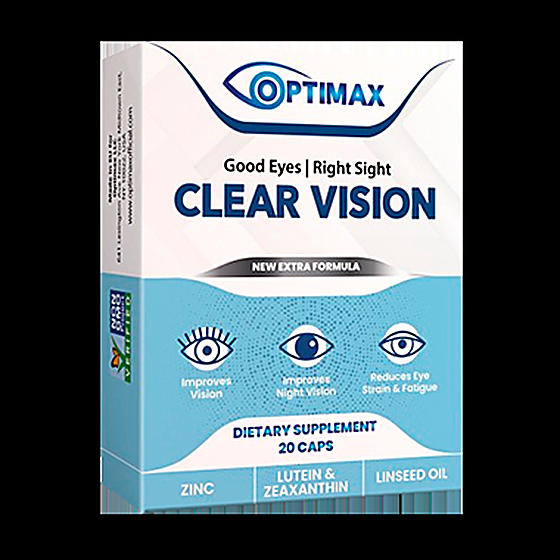
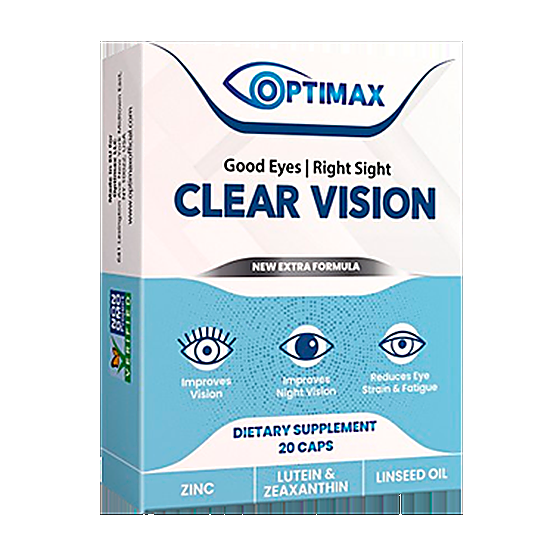
Фото: белый фон вместо чёрного — 763 кадра заливкой, 223 перерисовкой с автопроверкой текста

diff --git a/index.html b/index.html
@@ -52,7 +52,7 @@
 <div class="wrap">
   <header><img src="favicon.png" alt=""><h1>Manufacturer's shop</h1></header>
   <div class="intro"><p>Direct sale of products for everyday wellbeing.</p></div>
-  <div class="grid"><a class="card" href="/cp/acure/"><div class="ph"><img src="img/cp-18541.jpg" alt="Acure+" loading="lazy"></div><div class="name">Acure+</div><div class="price">₱1980</div><div class="btn">ORDER THE ORIGINAL</div></a><a class="card" href="/lb/anti-parasite/"><div class="ph"><img src="img/lbhd-19262.webp" alt="Anti Parasite" loading="lazy"></div><div class="name">Anti Parasite</div><div class="price">₱1950</div><div class="btn">ORDER THE ORIGINAL</div></a><a class="card" href="/kma/aurifix/"><div class="ph"><img src="img/kmahd-6668.png" alt="Aurifix" loading="lazy"></div><div class="name">Aurifix</div><div class="price">₱1950</div><div class="btn">ORDER THE ORIGINAL</div></a><a class="card" href="/lb/bone-support/"><div class="ph"><img src="img/lbhd-19253.png" alt="Bone Support" loading="lazy"></div><div class="name">Bone Support</div><div class="price">₱1950</div><div class="btn">ORDER THE ORIGINAL</div></a><a class="card" href="/dc/bone-support/"><div class="ph"><img src="img/dccard-33339.jpg" alt="Bone Support ENG" loading="lazy"></div><div class="name">Bone Support ENG</div><div class="price">₱1950</div><div class="btn">ORDER THE ORIGINAL</div></a><a class="card" href="/lb/buah-merah/"><div class="ph"><img src="img/lbhd-14441.png" alt="Buah Merah" loading="lazy"></div><div class="name">Buah Merah</div><div class="price">₱1990</div><div class="btn">ORDER THE ORIGINAL</div></a><a class="card" href="/lb/buah-merah-16736/"><div class="ph"><img src="img/lbhd-14441.png" alt="Buah Merah - Hypertonia + Potency" loading="lazy"></div><div class="name">Buah Merah - Hypertonia + Potency</div><div class="price">₱1990</div><div class="btn">ORDER THE ORIGINAL</div></a><a class="card" href="/kma/cardio-balance/"><div class="ph"><img src="img/kmahd-9606.jpg" alt="Cardio Balance" loading="lazy"></div><div class="name">Cardio Balance</div><div class="price">₱1950</div><div class="btn">ORDER THE ORIGINAL</div></a><a class="card" href="/kma/cardio-tonus/"><div class="ph"><img src="img/kmahd-8102.jpg" alt="Cardio Tonus" loading="lazy"></div><div class="name">Cardio Tonus</div><div class="price">₱1950</div><div class="btn">ORDER THE ORIGINAL</div></a><a class="card" href="/dc/cardiocept/"><div class="ph"><img src="img/dccard-30212.png" alt="Cardiocept" loading="lazy"></div><div class="name">Cardiocept</div><div class="price">₱1950</div><div class="btn">ORDER THE ORIGINAL</div></a><a class="card" href="/cp/cardiorin/"><div class="ph"><img src="img/cp-18537.jpg" alt="Cardiorin" loading="lazy"></div><div class="name">Cardiorin</div><div class="price">₱1980</div><div class="btn">ORDER THE ORIGINAL</div></a><a class="card" href="/lb/collagenax/"><div class="ph"><img src="img/lbhd-5883.png" alt="CollagenAX" loading="lazy"></div><div class="name">CollagenAX</div><div class="price">₱1970</div><div class="btn">ORDER THE ORIGINAL</div></a><a class="card" href="/cp/diabetin/"><div class="ph"><img src="img/cp-18539.jpg" alt="Diabetin" loading="lazy"></div><div class="name">Diabetin</div><div class="price">₱1980</div><div class="btn">ORDER THE ORIGINAL</div></a><a class="card" href="/kma/diabex/"><div class="ph"><img src="img/kmahd-9609.png" alt="Diabex" loading="lazy"></div><div class="name">Diabex</div><div class="price">₱1980</div><div class="btn">ORDER THE ORIGINAL</div></a><a class="card" href="/lr/diabextan/"><div class="ph"><img src="img/lrhd-2911.png" alt="Diabextan" loading="lazy"></div><div class="name">Diabextan</div><div class="price">₱1930</div><div class="btn">ORDER THE ORIGINAL</div></a><a class="card" href="/m1/dr-flex/"><div class="ph"><img src="img/dccard-31306.png" alt="Dr.Flex" loading="lazy"></div><div class="name">Dr.Flex</div><div class="price">₱1970</div><div class="btn">ORDER THE ORIGINAL</div></a><a class="card" href="/m1/dr-prost/"><div class="ph"><img src="img/drcash-dr-prost.png" alt="Dr.Prost" loading="lazy"></div><div class="name">Dr.Prost</div><div class="price">₱1970</div><div class="btn">ORDER THE ORIGINAL</div></a><a class="card" href="/cp/easygo/"><div class="ph"><img src="img/cat-cpa-18531.jpg" alt="EasyGo" loading="lazy"></div><div class="name">EasyGo</div><div class="price">₱1980</div><div class="btn">ORDER THE ORIGINAL</div></a><a class="card" href="/kma/fitsleep/"><div class="ph"><img src="img/kmahd-8099.png" alt="Fit&amp;Sleep" loading="lazy"></div><div class="name">Fit&amp;Sleep</div><div class="price">₱1950</div><div class="btn">ORDER THE ORIGINAL</div></a><a class="card" href="/lb/fitsleep/"><div class="ph"><img src="img/lbhd-7251.png" alt="Fit&amp;Sleep - weight loss treatment" loading="lazy"></div><div class="name">Fit&amp;Sleep - weight loss treatment</div><div class="price">₱1950</div><div class="btn">ORDER THE ORIGINAL</div></a><a class="card" href="/sh/flexolex/"><div class="ph"><img src="img/shhd-17676.png" alt="Flexolex" loading="lazy"></div><div class="name">Flexolex</div><div class="price">₱1970</div><div class="btn">ORDER THE ORIGINAL</div></a><a class="card" href="/kma/fungonal/"><div class="ph"><img src="img/kmahd-7082.png" alt="Fungonal" loading="lazy"></div><div class="name">Fungonal</div><div class="price">₱1970</div><div class="btn">ORDER THE ORIGINAL</div></a><a class="card" href="/lb/glucocept/"><div class="ph"><img src="img/lbhd-16783.png" alt="Glucocept" loading="lazy"></div><div class="name">Glucocept</div><div class="price">₱1980</div><div class="btn">ORDER THE ORIGINAL</div></a><a class="card" href="/lb/gluconax/"><div class="ph"><img src="img/lbhd-15223.png" alt="Gluconax" loading="lazy"></div><div class="name">Gluconax</div><div class="price">₱1990</div><div class="btn">ORDER THE ORIGINAL</div></a><a class="card" href="/kma/glucosoft/"><div class="ph"><img src="img/kmahd-8100.png" alt="GlucoSoft" loading="lazy"></div><div class="name">GlucoSoft</div><div class="price">₱1980</div><div class="btn">ORDER THE ORIGINAL</div></a><a class="card" href="/lb/glucosoft/"><div class="ph"><img src="img/lbhd-7751.png" alt="GlucoSoft - sugar control supplement" loading="lazy"></div><div class="name">GlucoSoft - sugar control supplement</div><div class="price">₱1980</div><div class="btn">ORDER THE ORIGINAL</div></a><a class="card" href="/kma/haciba/"><div class="ph"><img src="img/kmahd-11901.png" alt="Haciba" loading="lazy"></div><div class="name">Haciba</div><div class="price">₱1990</div><div class="btn">ORDER THE ORIGINAL</div></a><a class="card" href="/lb/haciba-breast-enlargement/"><div class="ph"><img src="img/lbhd-14101.jpeg" alt="Haciba Breast Enlargement" loading="lazy"></div><div class="name">Haciba Breast Enlargement</div><div class="price">₱1990</div><div class="btn">ORDER THE ORIGINAL</div></a><a class="card" href="/lb/haciba-cystitis/"><div class="ph"><img src="img/lbhd-11292.png" alt="Haciba Cystitis" loading="lazy"></div><div class="name">Haciba Cystitis</div><div class="price">₱1990</div><div class="btn">ORDER THE ORIGINAL</div></a><a class="card" href="/kma/hardica/"><div class="ph"><img src="img/kmahd-8574.jpg" alt="Hardica" loading="lazy"></div><div class="name">Hardica</div><div class="price">₱1980</div><div class="btn">ORDER THE ORIGINAL</div></a><a class="card" href="/lb/hardica/"><div class="ph"><img src="img/lbhd-7752.jpeg" alt="Hardica - potency" loading="lazy"></div><div class="name">Hardica - potency</div><div class="price">₱1980</div><div class="btn">ORDER THE ORIGINAL</div></a><a class="card" href="/dc/hardica/"><div class="ph"><img src="img/drcash-hardica.webp" alt="Hardica Adult" loading="lazy"></div><div class="name">Hardica Adult</div><div class="price">₱1980</div><div class="btn">ORDER THE ORIGINAL</div></a><a class="card" href="/lb/heart-keep/"><div class="ph"><img src="img/lbhd-3582.png" alt="Heart Keep" loading="lazy"></div><div class="name">Heart Keep</div><div class="price">₱1950</div><div class="btn">ORDER THE ORIGINAL</div></a><a class="card" href="/lb/heart-support/"><div class="ph"><img src="img/lbhd-19211.png" alt="Heart Support" loading="lazy"></div><div class="name">Heart Support</div><div class="price">₱1950</div><div class="btn">ORDER THE ORIGINAL</div></a><a class="card" href="/lr/heartkeep/"><div class="ph"><img src="img/lrhd-1303.png" alt="HeartKeep" loading="lazy"></div><div class="name">HeartKeep</div><div class="price">₱1950</div><div class="btn">ORDER THE ORIGINAL</div></a><a class="card" href="/cp/hemanol/"><div class="ph"><img src="img/cp-18533.jpg" alt="Hemanol" loading="lazy"></div><div class="name">Hemanol</div><div class="price">₱990</div><div class="btn">ORDER THE ORIGINAL</div></a><a class="card" href="/dc/liveromax/"><div class="ph"><img src="img/lbhd-7253.png" alt="LiveroMAX" loading="lazy"></div><div class="name">LiveroMAX</div><div class="price">₱1950</div><div class="btn">ORDER THE ORIGINAL</div></a><a class="card" href="/lb/liveromax/"><div class="ph"><img src="img/lbhd-7253.png" alt="LiveroMAX - liver health" loading="lazy"></div><div class="name">LiveroMAX - liver health</div><div class="price">₱1950</div><div class="btn">ORDER THE ORIGINAL</div></a><a class="card" href="/tl/lungactive/"><div class="ph"><img src="img/tlhd-7912.png" alt="LungActive" loading="lazy"></div><div class="name">LungActive</div><div class="price">₱1950</div><div class="btn">ORDER THE ORIGINAL</div></a><a class="card" href="/lb/lungactive/"><div class="ph"><img src="img/lbhd-7254.png" alt="LungActive - lungs health" loading="lazy"></div><div class="name">LungActive - lungs health</div><div class="price">₱1950</div><div class="btn">ORDER THE ORIGINAL</div></a><a class="card" href="/lr/mega-slim-body/"><div class="ph"><img src="img/lrhd-1346.png" alt="Mega Slim Body" loading="lazy"></div><div class="name">Mega Slim Body</div><div class="price">₱1970</div><div class="btn">ORDER THE ORIGINAL</div></a><a class="card" href="/dc/megaslim-body/"><div class="ph"><img src="img/tlhd-3912.png" alt="MegaSlim Body" loading="lazy"></div><div class="name">MegaSlim Body</div><div class="price">₱1970</div><div class="btn">ORDER THE ORIGINAL</div></a><a class="card" href="/kma/muscle-art/"><div class="ph"><img src="img/kmahd-6439.png" alt="Muscle Art" loading="lazy"></div><div class="name">Muscle Art</div><div class="price">₱1950</div><div class="btn">ORDER THE ORIGINAL</div></a><a class="card" href="/lr/muscleart/"><div class="ph"><img src="img/lrhd-2811.png" alt="MuscleArt" loading="lazy"></div><div class="name">MuscleArt</div><div class="price">₱1950</div><div class="btn">ORDER THE ORIGINAL</div></a><a class="card" href="/tl/ocure-plus/"><div class="ph"><img src="img/tlhd-10438.png" alt="Ocure plus" loading="lazy"></div><div class="name">Ocure plus</div><div class="price">₱1970</div><div class="btn">ORDER THE ORIGINAL</div></a><a class="card" href="/dc/ocureplus/"><div class="ph"><img src="img/leadbit-ocureplus.webp" alt="OcurePlus" loading="lazy"></div><div class="name">OcurePlus</div><div class="price">₱3940</div><div class="btn">ORDER THE ORIGINAL</div></a><a class="card" href="/lb/ocureplus/"><div class="ph"><img src="img/lbhd-7754.png" alt="OcurePlus - vision improving treatment" loading="lazy"></div><div class="name">OcurePlus - vision improving treatment</div><div class="price">₱1970</div><div class="btn">ORDER THE ORIGINAL</div></a><a class="card" href="/lb/optifix/"><div class="ph"><img src="img/lbhd-5632.png" alt="Optifix" loading="lazy"></div><div class="name">Optifix</div><div class="price">₱1970</div><div class="btn">ORDER THE ORIGINAL</div></a></div>
+  <div class="grid"><a class="card" href="/cp/acure/"><div class="ph"><img src="img/cp-18541.jpg" alt="Acure+" loading="lazy"></div><div class="name">Acure+</div><div class="price">₱1980</div><div class="btn">ORDER THE ORIGINAL</div></a><a class="card" href="/lb/anti-parasite/"><div class="ph"><img src="img/lbhd-19262.webp" alt="Anti Parasite" loading="lazy"></div><div class="name">Anti Parasite</div><div class="price">₱1950</div><div class="btn">ORDER THE ORIGINAL</div></a><a class="card" href="/kma/aurifix/"><div class="ph"><img src="img/kmahd-6668.png" alt="Aurifix" loading="lazy"></div><div class="name">Aurifix</div><div class="price">₱1950</div><div class="btn">ORDER THE ORIGINAL</div></a><a class="card" href="/lb/bone-support/"><div class="ph"><img src="img/lbhd-19253.png" alt="Bone Support" loading="lazy"></div><div class="name">Bone Support</div><div class="price">₱1950</div><div class="btn">ORDER THE ORIGINAL</div></a><a class="card" href="/dc/bone-support/"><div class="ph"><img src="img/dccard-33339.jpg" alt="Bone Support ENG" loading="lazy"></div><div class="name">Bone Support ENG</div><div class="price">₱1950</div><div class="btn">ORDER THE ORIGINAL</div></a><a class="card" href="/lb/buah-merah/"><div class="ph"><img src="img/lbhd-14441.png" alt="Buah Merah" loading="lazy"></div><div class="name">Buah Merah</div><div class="price">₱1990</div><div class="btn">ORDER THE ORIGINAL</div></a><a class="card" href="/lb/buah-merah-16736/"><div class="ph"><img src="img/lbhd-14441.png" alt="Buah Merah - Hypertonia + Potency" loading="lazy"></div><div class="name">Buah Merah - Hypertonia + Potency</div><div class="price">₱1990</div><div class="btn">ORDER THE ORIGINAL</div></a><a class="card" href="/kma/cardio-balance/"><div class="ph"><img src="img/kmahd-9606.jpg" alt="Cardio Balance" loading="lazy"></div><div class="name">Cardio Balance</div><div class="price">₱1950</div><div class="btn">ORDER THE ORIGINAL</div></a><a class="card" href="/kma/cardio-tonus/"><div class="ph"><img src="img/kmahd-8102.jpg" alt="Cardio Tonus" loading="lazy"></div><div class="name">Cardio Tonus</div><div class="price">₱1950</div><div class="btn">ORDER THE ORIGINAL</div></a><a class="card" href="/dc/cardiocept/"><div class="ph"><img src="img/dccard-30212.png" alt="Cardiocept" loading="lazy"></div><div class="name">Cardiocept</div><div class="price">₱1950</div><div class="btn">ORDER THE ORIGINAL</div></a><a class="card" href="/cp/cardiorin/"><div class="ph"><img src="img/cp-18537.jpg" alt="Cardiorin" loading="lazy"></div><div class="name">Cardiorin</div><div class="price">₱1980</div><div class="btn">ORDER THE ORIGINAL</div></a><a class="card" href="/lb/collagenax/"><div class="ph"><img src="img/lbhd-5883.png" alt="CollagenAX" loading="lazy"></div><div class="name">CollagenAX</div><div class="price">₱1970</div><div class="btn">ORDER THE ORIGINAL</div></a><a class="card" href="/cp/diabetin/"><div class="ph"><img src="img/cp-18539.jpg" alt="Diabetin" loading="lazy"></div><div class="name">Diabetin</div><div class="price">₱1980</div><div class="btn">ORDER THE ORIGINAL</div></a><a class="card" href="/kma/diabex/"><div class="ph"><img src="img/kmahd-9609.png" alt="Diabex" loading="lazy"></div><div class="name">Diabex</div><div class="price">₱1980</div><div class="btn">ORDER THE ORIGINAL</div></a><a class="card" href="/lr/diabextan/"><div class="ph"><img src="img/lrhd-2911.png" alt="Diabextan" loading="lazy"></div><div class="name">Diabextan</div><div class="price">₱1930</div><div class="btn">ORDER THE ORIGINAL</div></a><a class="card" href="/m1/dr-flex/"><div class="ph"><img src="img/dccard-31306.png" alt="Dr.Flex" loading="lazy"></div><div class="name">Dr.Flex</div><div class="price">₱1970</div><div class="btn">ORDER THE ORIGINAL</div></a><a class="card" href="/m1/dr-prost/"><div class="ph"><img src="img/redraw-drcash-dr-prost.png" alt="Dr.Prost" loading="lazy"></div><div class="name">Dr.Prost</div><div class="price">₱1970</div><div class="btn">ORDER THE ORIGINAL</div></a><a class="card" href="/cp/easygo/"><div class="ph"><img src="img/cat-cpa-18531.jpg" alt="EasyGo" loading="lazy"></div><div class="name">EasyGo</div><div class="price">₱1980</div><div class="btn">ORDER THE ORIGINAL</div></a><a class="card" href="/kma/fitsleep/"><div class="ph"><img src="img/kmahd-8099.png" alt="Fit&amp;Sleep" loading="lazy"></div><div class="name">Fit&amp;Sleep</div><div class="price">₱1950</div><div class="btn">ORDER THE ORIGINAL</div></a><a class="card" href="/lb/fitsleep/"><div class="ph"><img src="img/lbhd-7251.png" alt="Fit&amp;Sleep - weight loss treatment" loading="lazy"></div><div class="name">Fit&amp;Sleep - weight loss treatment</div><div class="price">₱1950</div><div class="btn">ORDER THE ORIGINAL</div></a><a class="card" href="/sh/flexolex/"><div class="ph"><img src="img/shhd-17676.png" alt="Flexolex" loading="lazy"></div><div class="name">Flexolex</div><div class="price">₱1970</div><div class="btn">ORDER THE ORIGINAL</div></a><a class="card" href="/kma/fungonal/"><div class="ph"><img src="img/kmahd-7082.png" alt="Fungonal" loading="lazy"></div><div class="name">Fungonal</div><div class="price">₱1970</div><div class="btn">ORDER THE ORIGINAL</div></a><a class="card" href="/lb/glucocept/"><div class="ph"><img src="img/lbhd-16783.png" alt="Glucocept" loading="lazy"></div><div class="name">Glucocept</div><div class="price">₱1980</div><div class="btn">ORDER THE ORIGINAL</div></a><a class="card" href="/lb/gluconax/"><div class="ph"><img src="img/redraw-lbhd-15223.png" alt="Gluconax" loading="lazy"></div><div class="name">Gluconax</div><div class="price">₱1990</div><div class="btn">ORDER THE ORIGINAL</div></a><a class="card" href="/kma/glucosoft/"><div class="ph"><img src="img/kmahd-8100.png" alt="GlucoSoft" loading="lazy"></div><div class="name">GlucoSoft</div><div class="price">₱1980</div><div class="btn">ORDER THE ORIGINAL</div></a><a class="card" href="/lb/glucosoft/"><div class="ph"><img src="img/redraw-lbhd-7751.png" alt="GlucoSoft - sugar control supplement" loading="lazy"></div><div class="name">GlucoSoft - sugar control supplement</div><div class="price">₱1980</div><div class="btn">ORDER THE ORIGINAL</div></a><a class="card" href="/kma/haciba/"><div class="ph"><img src="img/kmahd-11901.png" alt="Haciba" loading="lazy"></div><div class="name">Haciba</div><div class="price">₱1990</div><div class="btn">ORDER THE ORIGINAL</div></a><a class="card" href="/lb/haciba-breast-enlargement/"><div class="ph"><img src="img/lbhd-14101.jpeg" alt="Haciba Breast Enlargement" loading="lazy"></div><div class="name">Haciba Breast Enlargement</div><div class="price">₱1990</div><div class="btn">ORDER THE ORIGINAL</div></a><a class="card" href="/lb/haciba-cystitis/"><div class="ph"><img src="img/lbhd-11292.png" alt="Haciba Cystitis" loading="lazy"></div><div class="name">Haciba Cystitis</div><div class="price">₱1990</div><div class="btn">ORDER THE ORIGINAL</div></a><a class="card" href="/kma/hardica/"><div class="ph"><img src="img/kmahd-8574.jpg" alt="Hardica" loading="lazy"></div><div class="name">Hardica</div><div class="price">₱1980</div><div class="btn">ORDER THE ORIGINAL</div></a><a class="card" href="/lb/hardica/"><div class="ph"><img src="img/lbhd-7752.jpeg" alt="Hardica - potency" loading="lazy"></div><div class="name">Hardica - potency</div><div class="price">₱1980</div><div class="btn">ORDER THE ORIGINAL</div></a><a class="card" href="/dc/hardica/"><div class="ph"><img src="img/drcash-hardica.webp" alt="Hardica Adult" loading="lazy"></div><div class="name">Hardica Adult</div><div class="price">₱1980</div><div class="btn">ORDER THE ORIGINAL</div></a><a class="card" href="/lb/heart-keep/"><div class="ph"><img src="img/lbhd-3582.png" alt="Heart Keep" loading="lazy"></div><div class="name">Heart Keep</div><div class="price">₱1950</div><div class="btn">ORDER THE ORIGINAL</div></a><a class="card" href="/lb/heart-support/"><div class="ph"><img src="img/lbhd-19211.png" alt="Heart Support" loading="lazy"></div><div class="name">Heart Support</div><div class="price">₱1950</div><div class="btn">ORDER THE ORIGINAL</div></a><a class="card" href="/lr/heartkeep/"><div class="ph"><img src="img/lrhd-1303.png" alt="HeartKeep" loading="lazy"></div><div class="name">HeartKeep</div><div class="price">₱1950</div><div class="btn">ORDER THE ORIGINAL</div></a><a class="card" href="/cp/hemanol/"><div class="ph"><img src="img/cp-18533.jpg" alt="Hemanol" loading="lazy"></div><div class="name">Hemanol</div><div class="price">₱990</div><div class="btn">ORDER THE ORIGINAL</div></a><a class="card" href="/dc/liveromax/"><div class="ph"><img src="img/lbhd-7253.png" alt="LiveroMAX" loading="lazy"></div><div class="name">LiveroMAX</div><div class="price">₱1950</div><div class="btn">ORDER THE ORIGINAL</div></a><a class="card" href="/lb/liveromax/"><div class="ph"><img src="img/lbhd-7253.png" alt="LiveroMAX - liver health" loading="lazy"></div><div class="name">LiveroMAX - liver health</div><div class="price">₱1950</div><div class="btn">ORDER THE ORIGINAL</div></a><a class="card" href="/tl/lungactive/"><div class="ph"><img src="img/tlhd-7912.png" alt="LungActive" loading="lazy"></div><div class="name">LungActive</div><div class="price">₱1950</div><div class="btn">ORDER THE ORIGINAL</div></a><a class="card" href="/lb/lungactive/"><div class="ph"><img src="img/lbhd-7254.png" alt="LungActive - lungs health" loading="lazy"></div><div class="name">LungActive - lungs health</div><div class="price">₱1950</div><div class="btn">ORDER THE ORIGINAL</div></a><a class="card" href="/lr/mega-slim-body/"><div class="ph"><img src="img/lrhd-1346.png" alt="Mega Slim Body" loading="lazy"></div><div class="name">Mega Slim Body</div><div class="price">₱1970</div><div class="btn">ORDER THE ORIGINAL</div></a><a class="card" href="/dc/megaslim-body/"><div class="ph"><img src="img/tlhd-3912.png" alt="MegaSlim Body" loading="lazy"></div><div class="name">MegaSlim Body</div><div class="price">₱1970</div><div class="btn">ORDER THE ORIGINAL</div></a><a class="card" href="/kma/muscle-art/"><div class="ph"><img src="img/kmahd-6439.png" alt="Muscle Art" loading="lazy"></div><div class="name">Muscle Art</div><div class="price">₱1950</div><div class="btn">ORDER THE ORIGINAL</div></a><a class="card" href="/lr/muscleart/"><div class="ph"><img src="img/lrhd-2811.png" alt="MuscleArt" loading="lazy"></div><div class="name">MuscleArt</div><div class="price">₱1950</div><div class="btn">ORDER THE ORIGINAL</div></a><a class="card" href="/tl/ocure-plus/"><div class="ph"><img src="img/tlhd-10438.png" alt="Ocure plus" loading="lazy"></div><div class="name">Ocure plus</div><div class="price">₱1970</div><div class="btn">ORDER THE ORIGINAL</div></a><a class="card" href="/dc/ocureplus/"><div class="ph"><img src="img/leadbit-ocureplus.webp" alt="OcurePlus" loading="lazy"></div><div class="name">OcurePlus</div><div class="price">₱3940</div><div class="btn">ORDER THE ORIGINAL</div></a><a class="card" href="/lb/ocureplus/"><div class="ph"><img src="img/lbhd-7754.png" alt="OcurePlus - vision improving treatment" loading="lazy"></div><div class="name">OcurePlus - vision improving treatment</div><div class="price">₱1970</div><div class="btn">ORDER THE ORIGINAL</div></a><a class="card" href="/lb/optifix/"><div class="ph"><img src="img/lbhd-5632.png" alt="Optifix" loading="lazy"></div><div class="name">Optifix</div><div class="price">₱1970</div><div class="btn">ORDER THE ORIGINAL</div></a></div>
   <footer><a href="privacy.html">Privacy Policy</a><a href="terms.html">Terms and Conditions</a><a href="kontakt.html">Contact</a><a href="about.html">About us</a><span>fazalstrk@gmail.com</span><span>© 2026</span></footer>
 </div>
 </body>

diff --git a/lb/glucosoft/index.html b/lb/glucosoft/index.html
@@ -260,7 +260,7 @@ body.free .disc,body:not(.free) .nodisc{display:none}
       <div>
         <div class="product-card">
           <span class="disc-ribbon disc">-50%</span>
-          <img src="../../img/lbhd-7751.png" alt="GlucoSoft - sugar control supplement">
+          <img src="../../img/redraw-lbhd-7751.png" alt="GlucoSoft - sugar control supplement">
           <div><span class="ribbon">Original</span><div class="shotcap">Original box with seal and batch number</div></div>
         </div>
       </div>

diff --git a/m1/dr-prost/index.html b/m1/dr-prost/index.html
@@ -260,7 +260,7 @@ body.free .disc,body:not(.free) .nodisc{display:none}
       <div>
         <div class="product-card">
           <span class="disc-ribbon disc">-50%</span>
-          <img src="../../img/drcash-dr-prost.png" alt="Dr.Prost">
+          <img src="../../img/redraw-drcash-dr-prost.png" alt="Dr.Prost">
           <div><span class="ribbon">Original</span><div class="shotcap">Original box with seal and batch number</div></div>
         </div>
       </div>

diff --git a/mc/cardio-balance/index.html b/mc/cardio-balance/index.html
@@ -260,7 +260,7 @@ body.free .disc,body:not(.free) .nodisc{display:none}
       <div>
         <div class="product-card">
           <span class="disc-ribbon disc">-50%</span>
-          <img src="../../img/mchd-5783.png" alt="Cardio Balance">
+          <img src="../../img/redraw-mchd-5783.png" alt="Cardio Balance">
           <div><span class="ribbon">Original</span><div class="shotcap">Original box with seal and batch number</div></div>
         </div>
       </div>

diff --git a/mc/glucosoft/index.html b/mc/glucosoft/index.html
@@ -260,7 +260,7 @@ body.free .disc,body:not(.free) .nodisc{display:none}
       <div>
         <div class="product-card">
           <span class="disc-ribbon disc">-50%</span>
-          <img src="../../img/cat-lea-7751.jpg" alt="GlucoSoft">
+          <img src="../../img/redraw-cat-lea-7751.png" alt="GlucoSoft">
           <div><span class="ribbon">Original</span><div class="shotcap">Original box with seal and batch number</div></div>
         </div>
       </div>

diff --git a/lb/diabextan/index.html b/lb/diabextan/index.html
@@ -260,7 +260,7 @@ body.free .disc,body:not(.free) .nodisc{display:none}
       <div>
         <div class="product-card">
           <span class="disc-ribbon disc">-50%</span>
-          <img src="../../img/lbhd-6077.png" alt="Diabextan">
+          <img src="../../img/redraw-lbhd-6077.png" alt="Diabextan">
           <div><span class="ribbon">Original</span><div class="shotcap">Original box with seal and batch number</div></div>
         </div>
       </div>

diff --git a/lb/gluconax/index.html b/lb/gluconax/index.html
@@ -260,7 +260,7 @@ body.free .disc,body:not(.free) .nodisc{display:none}
       <div>
         <div class="product-card">
           <span class="disc-ribbon disc">-50%</span>
-          <img src="../../img/lbhd-15223.png" alt="Gluconax">
+          <img src="../../img/redraw-lbhd-15223.png" alt="Gluconax">
           <div><span class="ribbon">Original</span><div class="shotcap">Original box with seal and batch number</div></div>
         </div>
       </div>

diff --git a/tl/diabetin/index.html b/tl/diabetin/index.html
@@ -260,7 +260,7 @@ body.free .disc,body:not(.free) .nodisc{display:none}
       <div>
         <div class="product-card">
           <span class="disc-ribbon disc">-50%</span>
-          <img src="../../img/tlhd-21412.png" alt="Diabetin">
+          <img src="../../img/redraw-tlhd-21412.png" alt="Diabetin">
           <div><span class="ribbon">Original</span><div class="shotcap">Original box with seal and batch number</div></div>
         </div>
       </div>

diff --git a/tl/vascolex/index.html b/tl/vascolex/index.html
@@ -260,7 +260,7 @@ body.free .disc,body:not(.free) .nodisc{display:none}
       <div>
         <div class="product-card">
           <span class="disc-ribbon disc">-50%</span>
-          <img src="../../img/tlhd-7896.png" alt="Vascolex">
+          <img src="../../img/redraw-tlhd-7896.png" alt="Vascolex">
           <div><span class="ribbon">Original</span><div class="shotcap">Original box with seal and batch number</div></div>
         </div>
       </div>
